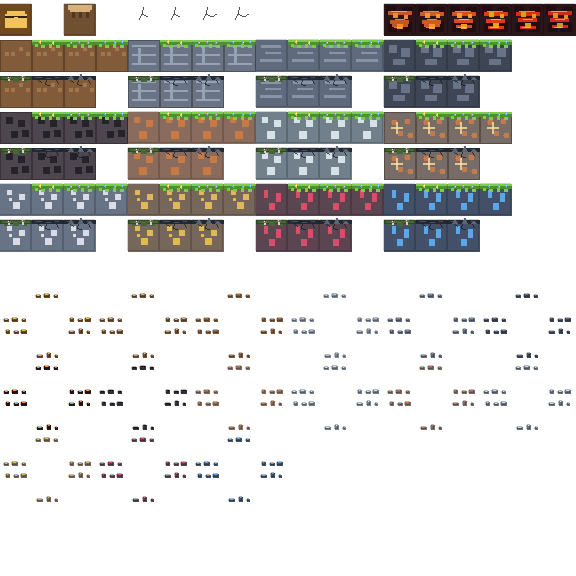
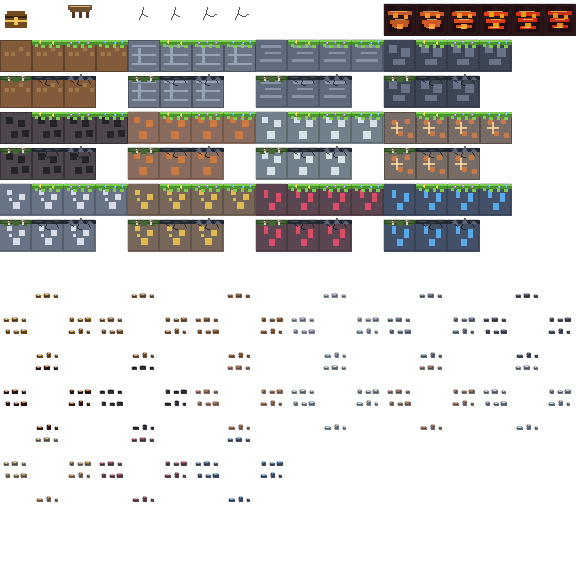
feat: update tile rendering logic to conditionally apply solid backdrops

Changed region(s): [[0.0938, 0.0, 0.1875, 0.0625], [0.0, 0.0, 0.0625, 0.0625]]

diff --git a/rendererWorldSubsystem.js b/rendererWorldSubsystem.js
@@ -119,10 +119,13 @@ export class RendererWorldSubsystem extends RendererSubsystem {
 
   paintTilePattern(context, definition, x, y, size, { time = 0, column = 0, row = 0 } = {}) {
     const unit = size / 32;
-    context.fillStyle = definition.fill;
-    context.fillRect(x, y, size, size);
-    context.strokeStyle = "rgba(0, 0, 0, 0.18)";
-    context.strokeRect(x, y, size, size);
+    const hasSolidBackdrop = !["chest", "platform"].includes(definition.pattern);
+    if (hasSolidBackdrop) {
+      context.fillStyle = definition.fill;
+      context.fillRect(x, y, size, size);
+      context.strokeStyle = "rgba(0, 0, 0, 0.18)";
+      context.strokeRect(x, y, size, size);
+    }
     context.fillStyle = definition.accent;
 
     switch (definition.pattern) {
@@ -150,6 +153,7 @@ export class RendererWorldSubsystem extends RendererSubsystem {
         this.drawMagmaPattern(context, definition, x, y, size, time, column, row);
         break;
       case "chest":
+        context.fillStyle = definition.fill;
         context.fillRect(x + 5 * unit, y + 10 * unit, 22 * unit, 14 * unit);
         context.fillRect(x + 7 * unit, y + 7 * unit, 18 * unit, 5 * unit);
         context.fillStyle = "#34210c";
@@ -159,6 +163,7 @@ export class RendererWorldSubsystem extends RendererSubsystem {
         context.fillRect(x + 5 * unit, y + 16 * unit, 22 * unit, 2 * unit);
         break;
       case "platform":
+        context.fillStyle = definition.fill;
         context.fillRect(x + 4 * unit, y + 1 * unit, 24 * unit, 5 * unit);
         context.fillRect(x + 6 * unit, y + 6 * unit, 20 * unit, 2 * unit);
         context.fillStyle = "#4f3720";
